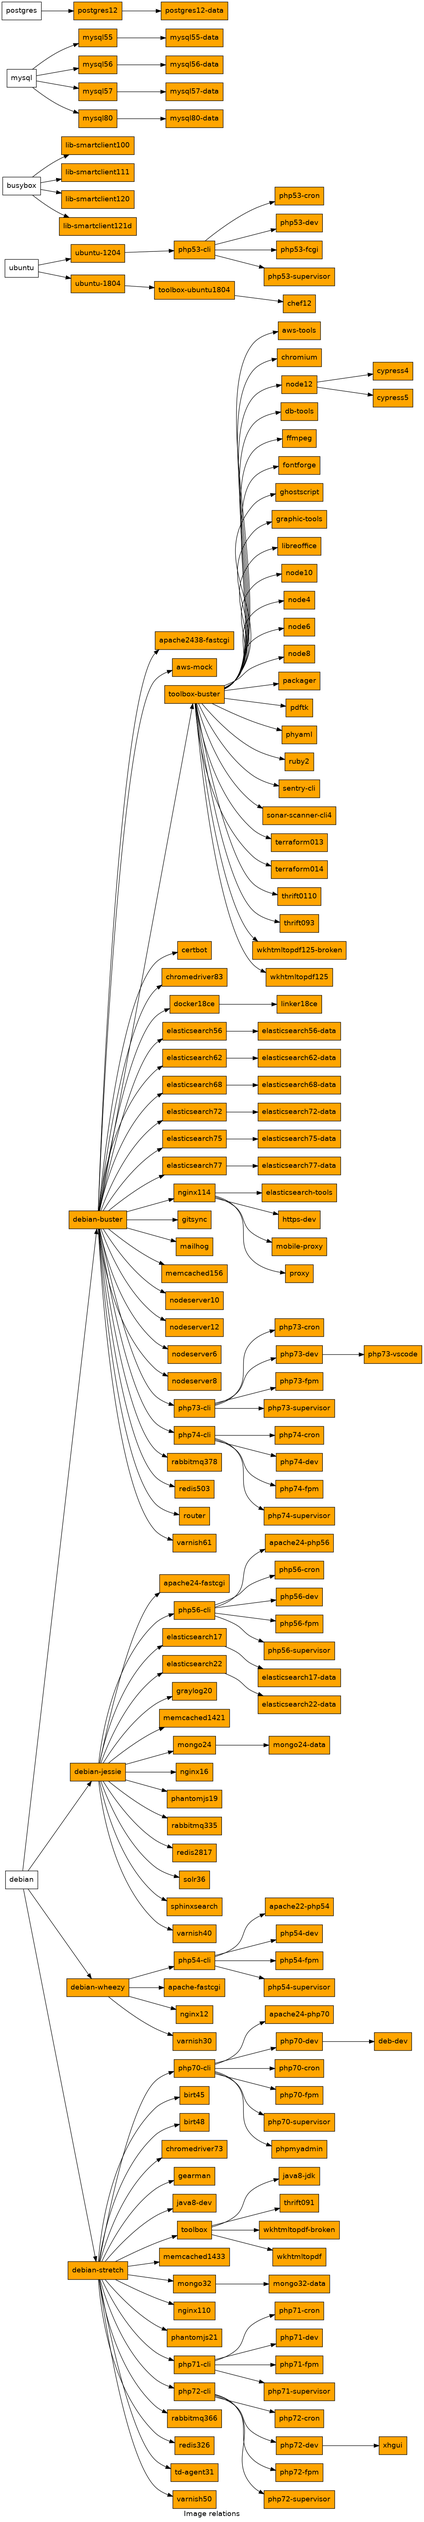
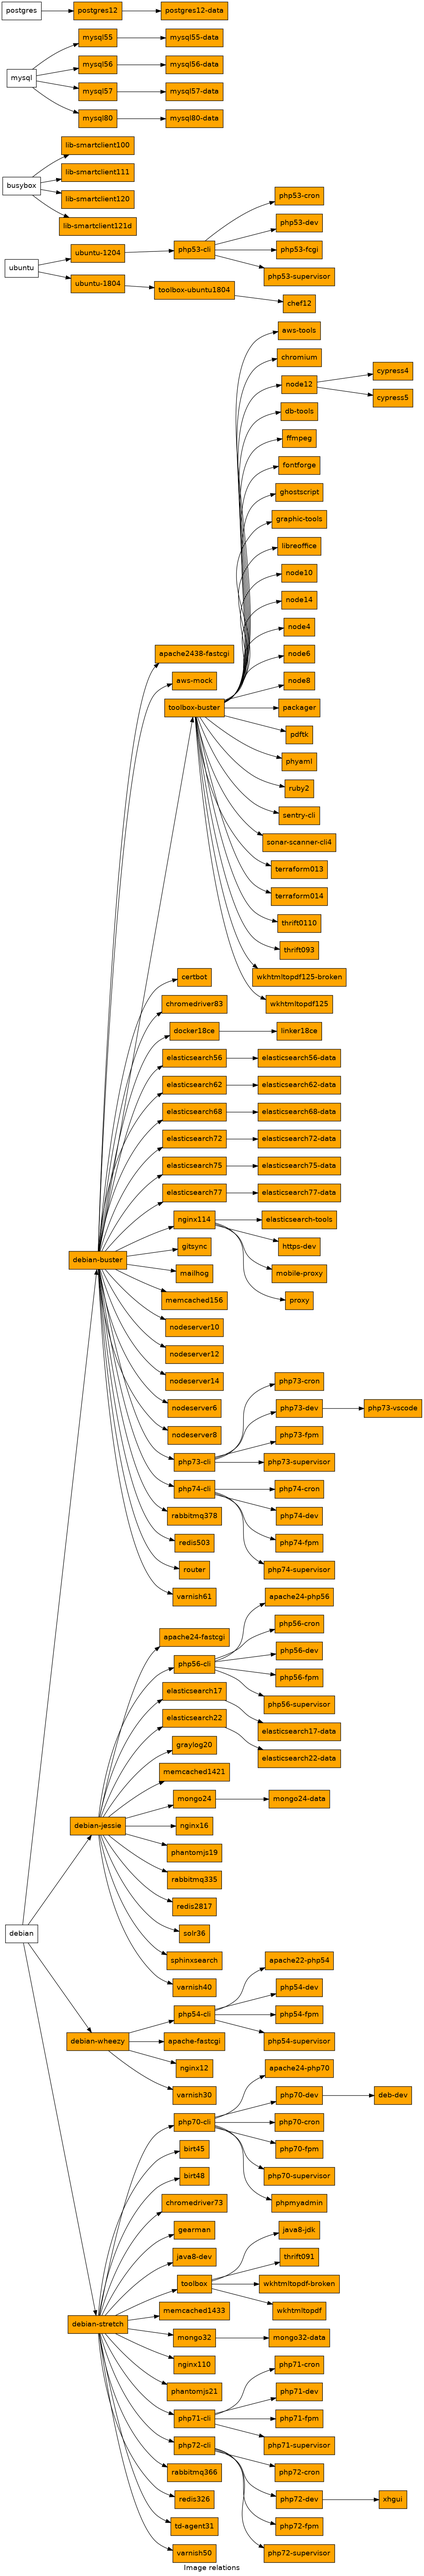
Node14 and nodeserver14 docker images created

diff --git a/nodeserver14/build/files/var/www/server.js b/nodeserver14/build/files/var/www/server.js
@@ -1,0 +1,12 @@
+var http = require('http');
+
+const PORT=3000;
+
+function handleRequest(request, response){
+        response.end('I am alive!');
+}
+
+var server = http.createServer(handleRequest);
+
+server.listen(PORT);
+

diff --git a/node14/README.md b/node14/README.md
@@ -1,0 +1,59 @@
+## Node.js toolbox
+
+### Info
+This is an image of Node.js 14.x version  in toolbox format
+
+### Global npm packages
+This image has pre-installed npm global packages
+
+ - yarn
+ - gulp-cli
+ - grunt-cli
+ - node-sass
+ - bower
+ - typescript
+ - tslint
+
+### Configuration
+Available binary paths for export:
+
+- /usr/bin/node
+- /usr/bin/npm
+- /usr/bin/yarn
+- /usr/bin/gulp
+- /usr/bin/grunt
+- /usr/bin/node-sass
+- /usr/bin/bower
+- /usr/bin/uglifycss
+- /usr/bin/uglifyjs
+- /usr/bin/tsc
+- /usr/bin/tslint
+- /usr/bin/npx
+
+### Sample configuration
+```
+version: '2.4'
+services:
+  node:
+    image: nfqlt/node14
+    volumes:
+      - './src:/home/project/src'
+      - /tmp
+
+  dev:
+    image: nfqlt/php73-dev
+    volumes_from:
+      - service:node:rw
+    volumes:
+      - './src:/home/project/src'
+      - '/home/project/.ssh:/home/project/.ssh'
+      - '/etc/ssh:/etc/ssh'
+      - '/etc/gitconfig:/etc/gitconfig'
+      - '/etc/environment:/etc/environment-vm:ro'
+    environment:
+      NFQ_REMOTE_TOOL_NODE: >
+        /usr/bin/yarn
+        /usr/bin/node
+        /usr/bin/grunt
+```
+

diff --git a/nodeserver14/README.md b/nodeserver14/README.md
@@ -1,0 +1,13 @@
+## Node server 14.x
+
+### Description
+A simple docker image containing node and npm, used to run npm targets. Like frontend servers
+
+### Internals
+There is a socat proxy added to this image, that tunnel 80 port to 3000. So all aplications runing on this server need to operate on port 3000
+
+### Environment variables
+* __NFQ_DOCUMENT_ROOT__:  Used to define starting work dir
+* __NFQ_NPM_RUN__: target name from package.json to launch on load
+* __NFQ_BACKEND_PORT__: the port node app will listen on so it can be redirected to port 80
+
